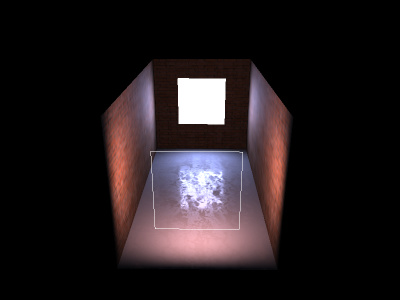
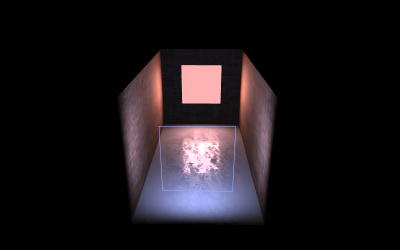
webgl_materials_envmaps_parallax.html : modify the color value (#21363)
* webgl_materials_envmaps_parallax.html : modify the color value

* Generate a screenshot of webgl_materials_envmaps_parallax.

Changed region(s): [[0.24, 0.196, 0.75, 0.896]]

diff --git a/examples/webgl_materials_envmaps_parallax.html b/examples/webgl_materials_envmaps_parallax.html
@@ -362,7 +362,7 @@
 
 				RectAreaLightUniformsLib.init();
 
-				const blueRectLight = new THREE.RectAreaLight( 0xf3aaaa, intensity, width, height );
+				const blueRectLight = new THREE.RectAreaLight( 0x9aaeff, intensity, width, height );
 				blueRectLight.position.set( 99, 5, 0 );
 				blueRectLight.lookAt( 0, 5, 0 );
 				scene.add( blueRectLight );
@@ -370,7 +370,7 @@
 				const blueRectLightHelper = new RectAreaLightHelper( blueRectLight );
 				blueRectLight.add( blueRectLightHelper );
 
-				const redRectLight = new THREE.RectAreaLight( 0x9aaeff, intensity, width, height );
+				const redRectLight = new THREE.RectAreaLight( 0xf3aaaa, intensity, width, height );
 				redRectLight.position.set( - 99, 5, 0 );
 				redRectLight.lookAt( 0, 5, 0 );
 				scene.add( redRectLight );
